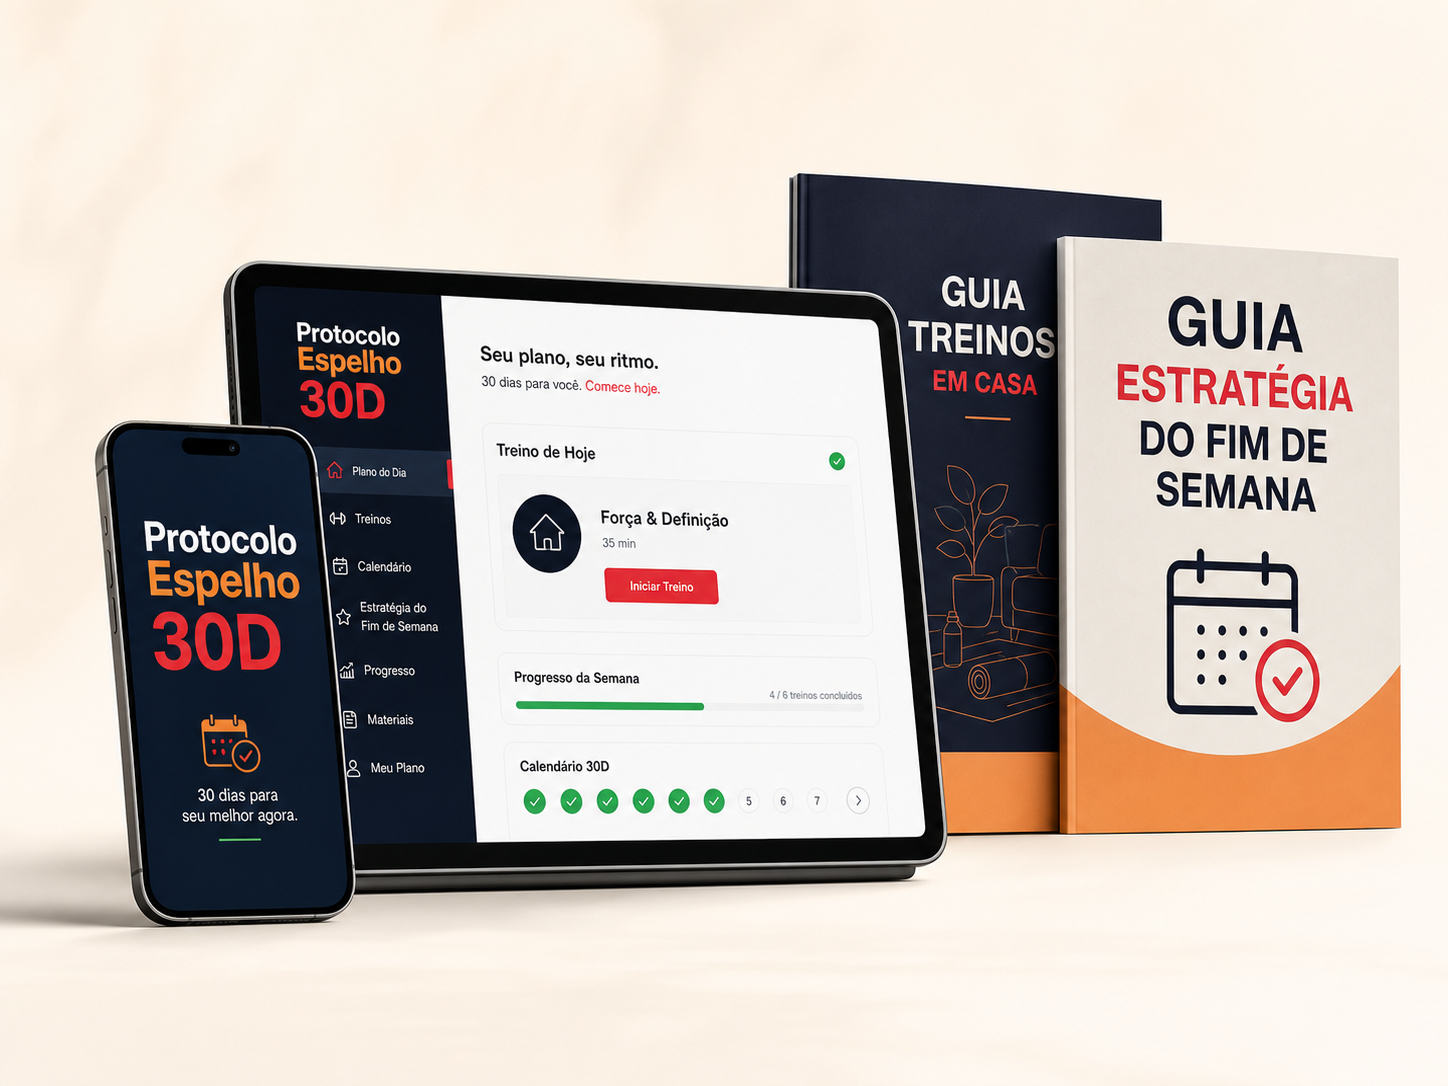
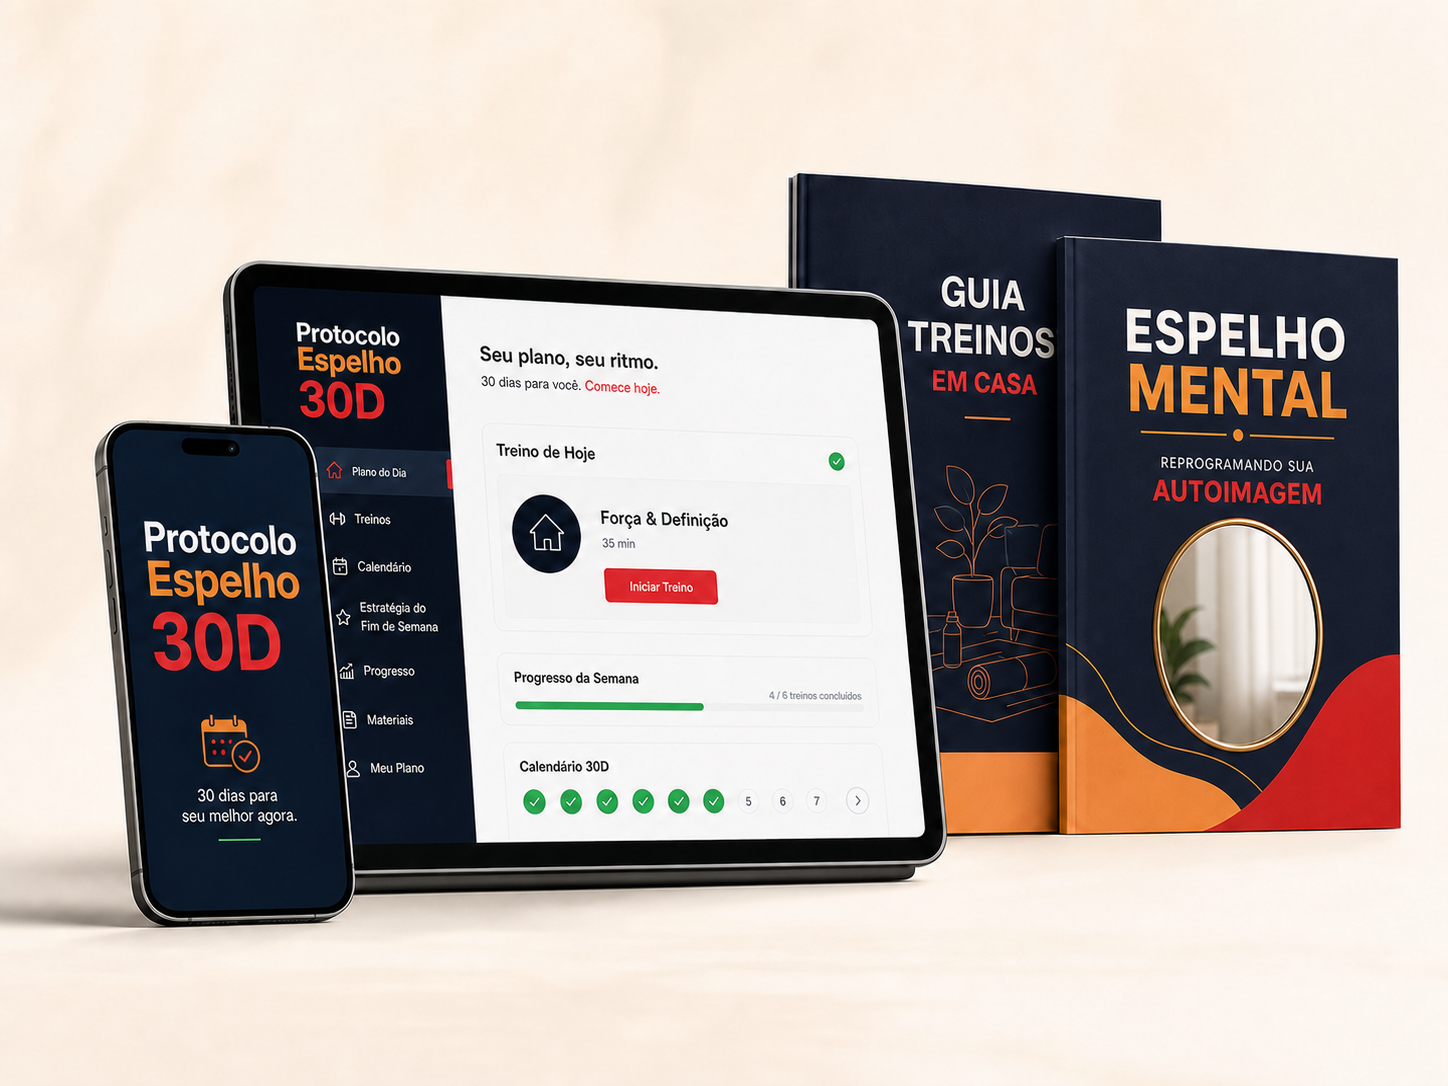
Refactor code structure for improved readability and maintainability

diff --git a/src/App.tsx b/src/App.tsx
@@ -157,9 +157,11 @@ export default function App() {
 
         {/* ── LOGO / HEADER ── */}
         <header className="py-3 flex justify-center">
-          <span style={{ fontSize: '1.25rem', fontWeight: 700, color: 'var(--fg)', letterSpacing: '-0.02em' }}>
-            Thiago Benvenho
-          </span>
+          <img
+            src="/assets/logo.webp"
+            alt="Protocolo Espelho 30D"
+            style={{ height: '5rem', width: 'auto', display: 'block' }}
+          />
         </header>
 
         {/* ════════════════ 1. HERO ════════════════ */}
@@ -174,8 +176,8 @@ export default function App() {
               {/* Texto */}
               <div className="flex-1">
                 <h1 style={{ fontSize: 'clamp(1.75rem, 4vw, 2.75rem)', fontWeight: 700, letterSpacing: '-0.02em', lineHeight: 1.1, color: 'var(--fg)', textWrap: 'balance' } as React.CSSProperties}>
-                  Pare de evitar o espelho:{' '}
-                  <span style={{ color: 'var(--primary)' }}>seque a barriga em 30 dias treinando 20 minutos por dia em casa.</span>
+                  Transforme o que você vê no espelho em 30 dias —{' '}
+                  <span style={{ color: 'var(--primary)' }}>sem precisar pagar academia.</span>
                 </h1>
                 <p style={{ marginTop: '1rem', fontSize: '1.0625rem', color: 'var(--muted)', lineHeight: 1.7 }}>
                   Com o Protocolo Espelho 30D você vai treinar em casa sem equipamento, ver resultado no espelho em 30 dias — e desta vez chegar até o fim, mesmo com filhos, trabalho e vida social no meio.
@@ -220,12 +222,12 @@ export default function App() {
               <span style={{ color: 'var(--primary)' }}>Protocolo Espelho 30D:</span>
             </h2>
 
-            <div className="lt-social-grid" style={{ marginTop: '2rem', columns: 1, gap: '1rem', maxWidth: '28rem', marginLeft: 'auto', marginRight: 'auto' }}>
+            <div style={{ marginTop: '2rem', display: 'grid', gridTemplateColumns: 'repeat(auto-fit, minmax(20rem, 1fr))', gap: '1.5rem', maxWidth: '56rem', marginLeft: 'auto', marginRight: 'auto' }}>
               {[
                 { src: '/assets/depoimento_real1.webp', label: 'Bárbara Natali' },
                 { src: '/assets/depoimento_real2.webp', label: 'Vanessa' },
               ].map((d, i) => (
-                <div key={i} className="lt-card" style={{ overflow: 'hidden', breakInside: 'avoid', marginBottom: '1rem' }}>
+                <div key={i} className="lt-card" style={{ overflow: 'hidden' }}>
                   <img
                     src={d.src}
                     alt={`Depoimento: ${d.label}`}
@@ -429,10 +431,10 @@ export default function App() {
                   img: '/assets/entregavel-1.png',
                 },
                 {
-                  title: 'Guia do Fim de Semana Sem Culpa',
-                  desc: 'O material que resolve o maior sabotador da mulher brasileira. Estratégias práticas e prontas para aplicar em churrasco, pizza, aniversário, barzinho — você curte tudo sem sentir culpa e sem destruir o resultado da semana.',
+                  title: 'Espelho Mental — Reprogramando Sua Autoimagem',
+                  desc: 'O PDF que trabalha a sua relação com o próprio corpo e com o espelho — âncora direta da voz que aparece toda vez que você se olha. Sem reprogramar essa imagem, a mudança física não sustenta. Aqui você quebra o ciclo de auto-sabotagem na raiz.',
                   tipo: 'pdf',
-                  img: '/assets/entregavel-2.png',
+                  img: '/assets/espelho-mental.png',
                 },
                 {
                   title: '10 Hábitos Que Aceleram Seus Resultados em 7 Dias',
@@ -479,25 +481,40 @@ export default function App() {
             </div>
 
             {/* Bônus */}
-            <div style={{ marginTop: '2rem' }}>
-              <div className="lt-card" style={{ overflow: 'hidden' }}>
-                <div className="lt-deliv-inner lt-rev" style={{ display: 'flex', flexDirection: 'column' }}>
-                  <div className="lt-deliv-img" style={{ overflow: 'hidden', background: '#f0f0eb', minHeight: 160, display: 'flex', alignItems: 'center', justifyContent: 'center' }}>
-                    <img
-                      src="/assets/bonus-1.png"
-                      alt="Mockup do bônus Planejamento Alimentar para Definição"
-                      style={{ width: '100%', height: 'auto', display: 'block' }}
-                    />
-                  </div>
-                  <div className="lt-deliv-body" style={{ display: 'flex', flexDirection: 'column', justifyContent: 'center', gap: '0.75rem', padding: '1.5rem 2rem' }}>
-                    <span style={{ display: 'inline-flex', alignItems: 'center', gap: 6, borderRadius: 9999, background: 'rgba(244,162,97,0.15)', padding: '0.25rem 0.875rem', fontSize: '0.75rem', fontWeight: 700, color: 'var(--primary)', textTransform: 'uppercase', letterSpacing: '0.08em', alignSelf: 'flex-start' }}>
-                      🎁 BÔNUS EXCLUSIVO
-                    </span>
-                    <h3 style={{ fontSize: '1.25rem', fontWeight: 600, color: 'var(--fg)' }}>Planejamento Alimentar para Definição</h3>
-                    <p style={{ fontSize: '1rem', lineHeight: 1.7, color: 'var(--muted)' }}>Cardápio base com sugestões de refeições práticas para a mulher que quer resultado sem dieta radical e sem passar fome. Vai direto ao que funciona — sem complicação.</p>
+            <div style={{ marginTop: '2rem', display: 'flex', flexDirection: 'column', gap: '2rem' }}>
+              {[
+                {
+                  img: '/assets/bonus-1.png',
+                  alt: 'Mockup do bônus Planejamento Alimentar para Definição',
+                  title: 'Planejamento Alimentar para Definição',
+                  desc: 'Cardápio base com sugestões de refeições práticas para a mulher que quer resultado sem dieta radical e sem passar fome. Vai direto ao que funciona — sem complicação.',
+                },
+                {
+                  img: '/assets/entregavel-2.png',
+                  alt: 'Mockup do bônus Guia do Fim de Semana Sem Culpa',
+                  title: 'Guia do Fim de Semana Sem Culpa',
+                  desc: 'O material que resolve o maior sabotador da mulher brasileira. Estratégias práticas e prontas para aplicar em churrasco, pizza, aniversário, barzinho — você curte tudo sem sentir culpa e sem destruir o resultado da semana.',
+                },
+              ].map((b, i) => (
+                <div key={i} className="lt-card" style={{ overflow: 'hidden' }}>
+                  <div className={`lt-deliv-inner${i % 2 === 0 ? ' lt-rev' : ''}`} style={{ display: 'flex', flexDirection: 'column' }}>
+                    <div className="lt-deliv-img" style={{ overflow: 'hidden', background: '#f0f0eb', minHeight: 160, display: 'flex', alignItems: 'center', justifyContent: 'center' }}>
+                      <img
+                        src={b.img}
+                        alt={b.alt}
+                        style={{ width: '100%', height: 'auto', display: 'block' }}
+                      />
+                    </div>
+                    <div className="lt-deliv-body" style={{ display: 'flex', flexDirection: 'column', justifyContent: 'center', gap: '0.75rem', padding: '1.5rem 2rem' }}>
+                      <span style={{ display: 'inline-flex', alignItems: 'center', gap: 6, borderRadius: 9999, background: 'rgba(244,162,97,0.15)', padding: '0.25rem 0.875rem', fontSize: '0.75rem', fontWeight: 700, color: 'var(--primary)', textTransform: 'uppercase', letterSpacing: '0.08em', alignSelf: 'flex-start' }}>
+                        🎁 BÔNUS EXCLUSIVO
+                      </span>
+                      <h3 style={{ fontSize: '1.25rem', fontWeight: 600, color: 'var(--fg)' }}>{b.title}</h3>
+                      <p style={{ fontSize: '1rem', lineHeight: 1.7, color: 'var(--muted)' }}>{b.desc}</p>
+                    </div>
                   </div>
                 </div>
-              </div>
+              ))}
             </div>
           </div>
         </section>
@@ -556,9 +573,10 @@ export default function App() {
             <div style={{ borderRadius: '1.5rem', background: 'white', boxShadow: '0 10px 40px rgba(26,26,46,0.06)', overflow: 'hidden' }}>
               {[
                 { nome: 'Plataforma de Treinos 30D', valor: 'R$ 127,00' },
-                { nome: 'Guia do Fim de Semana Sem Culpa', valor: 'R$ 97,00' },
+                { nome: 'Espelho Mental — Reprogramando Sua Autoimagem', valor: 'R$ 97,00' },
                 { nome: '10 Hábitos Que Aceleram Seus Resultados em 7 Dias', valor: 'R$ 67,00' },
                 { nome: 'BÔNUS: Planejamento Alimentar para Definição', valor: 'R$ 97,00' },
+                { nome: 'BÔNUS: Guia do Fim de Semana Sem Culpa', valor: 'R$ 97,00' },
               ].map((item, i) => (
                 <div key={i} style={{ display: 'flex', alignItems: 'center', justifyContent: 'space-between', padding: '1rem 1.5rem', borderBottom: '1px solid rgba(26,26,46,0.05)' }}>
                   <span style={{ display: 'flex', alignItems: 'center', gap: '0.75rem', fontSize: '1rem', color: 'var(--fg)' }}>
@@ -571,7 +589,7 @@ export default function App() {
               <div style={{ background: 'rgba(26,26,46,0.02)', padding: '1.25rem 1.5rem' }}>
                 <div className="lt-pricing-total">
                   <span style={{ fontSize: '1rem', fontWeight: 600, color: 'var(--fg)' }}>Tudo isso deveria custar:</span>
-                  <span style={{ fontSize: '1.5rem', fontWeight: 700, color: '#dc2626', textDecoration: 'line-through', whiteSpace: 'nowrap' }}>R$ 388,00</span>
+                  <span style={{ fontSize: '1.5rem', fontWeight: 700, color: '#dc2626', textDecoration: 'line-through', whiteSpace: 'nowrap' }}>R$ 485,00</span>
                 </div>
               </div>
             </div>
@@ -620,7 +638,7 @@ export default function App() {
                   icon: <CheckCircle2 style={{ height: 32, width: 32, color: 'var(--success)' }} />,
                   num: '3',
                   title: 'TUDO PRONTO!',
-                  desc: 'Abra o treino do Dia 1, leia o Guia do Fim de Semana e comece hoje mesmo — o espelho vai te agradecer em 30 dias.',
+                  desc: 'Abra o treino do Dia 1, leia o Espelho Mental e comece hoje mesmo — o espelho vai te agradecer em 30 dias.',
                 },
               ].map((step, i) => (
                 <div key={i} style={{ display: 'flex', flexDirection: 'column', alignItems: 'center', gap: '1rem', padding: '2rem 1.5rem', borderRadius: '1.25rem', background: 'var(--bg)' }}>
